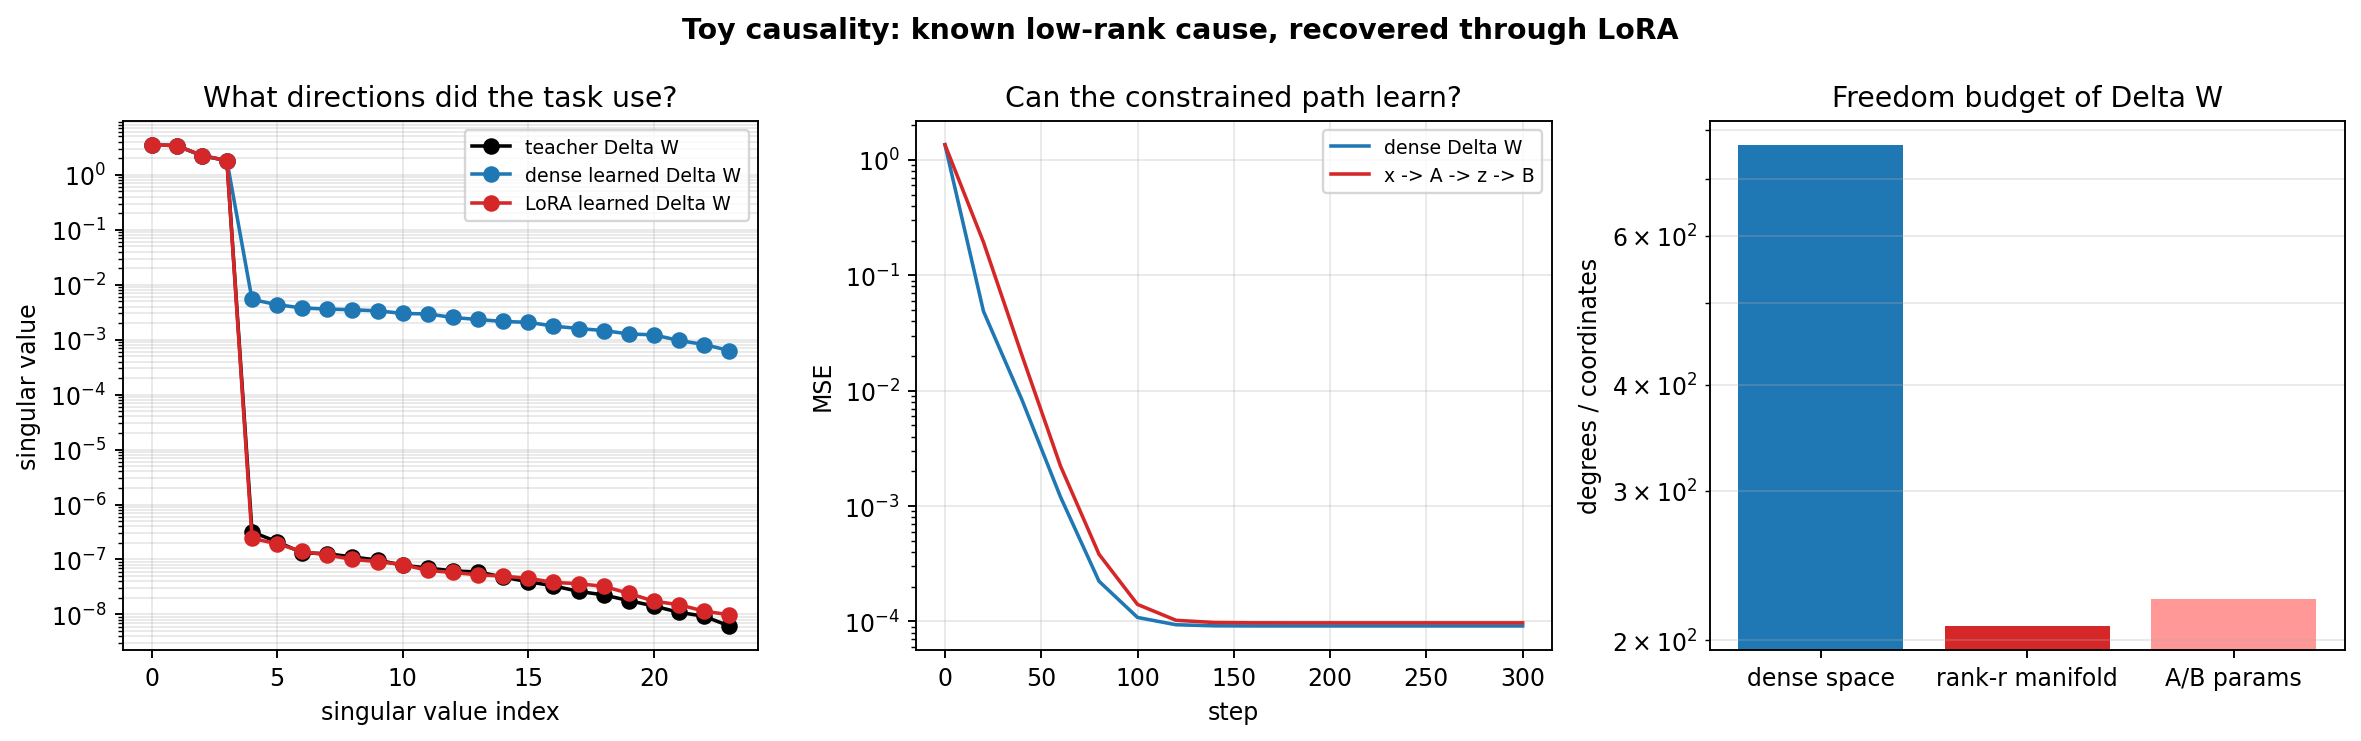
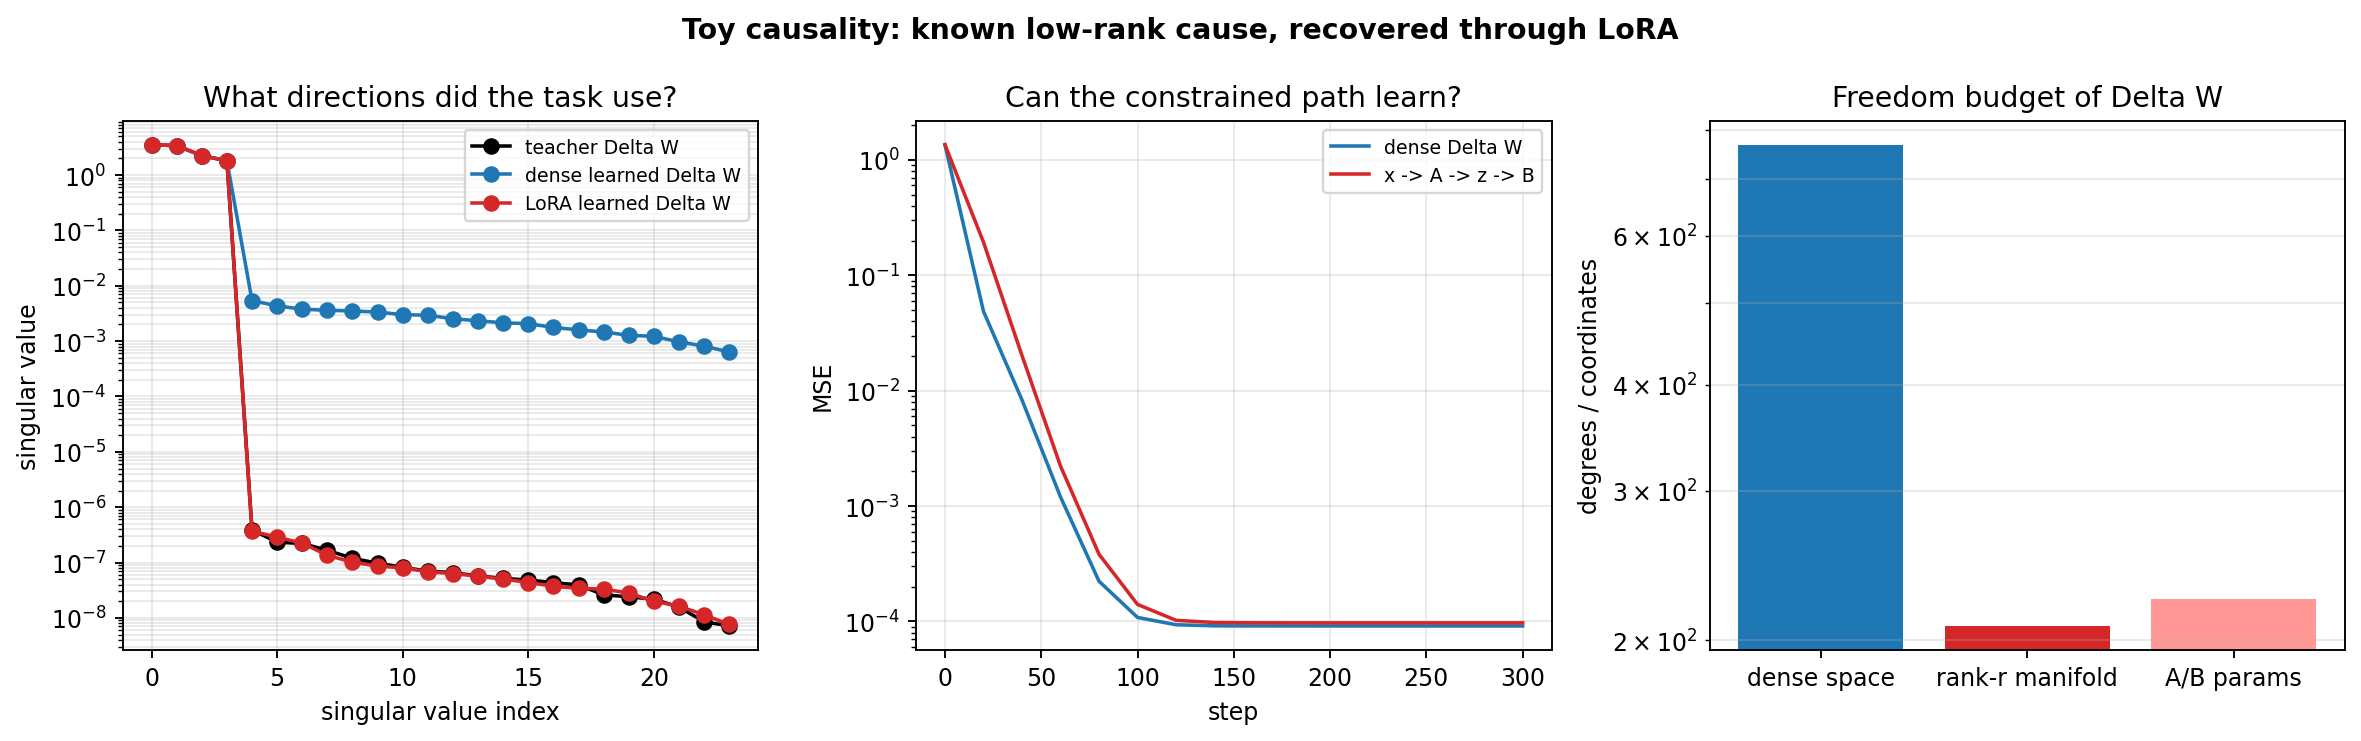
removing code redundancy

diff --git a/main.py b/main.py
@@ -84,81 +84,13 @@ class PneumoniaTensorDataset(Dataset):
 
 
 def print_protocol() -> None:
-    section("modeling protocol")
-    print("phenomenon     : a new task changes a pretrained model's behavior")
-    print("unit           : Delta W, the task-induced displacement of a frozen operator")
-    print("space          : Delta W lives in R^(out x in)")
-    print("dense cause    : Delta W can move anywhere in that space")
-    print("LoRA cause     : Delta W must pass through x -> A -> z_task -> B")
-    print("constraint     : rank(Delta W) <= r, a low-dimensional manifold")
-    print("observable     : singular-value energy collapse")
-    print("test logic     : toy world has known cause; clinical world has only traces")
-
-
-def vector_field(ax: plt.Axes, matrix: np.ndarray, title: str) -> None:
-    grid = np.linspace(-1.0, 1.0, 13)
-    xs, ys = np.meshgrid(grid, grid)
-    points = np.stack([xs.ravel(), ys.ravel()], axis=0)
-    moved = matrix @ points
-
-    ax.quiver(
-        points[0],
-        points[1],
-        moved[0],
-        moved[1],
-        angles="xy",
-        scale_units="xy",
-        scale=8.0,
-        width=0.004,
-        color="#d62728",
-        alpha=0.85,
-    )
-    ax.axhline(0, color="black", lw=0.7, alpha=0.35)
-    ax.axvline(0, color="black", lw=0.7, alpha=0.35)
-    ax.set_aspect("equal")
-    ax.set_xlim(-1.15, 1.15)
-    ax.set_ylim(-1.15, 1.15)
-    ax.set_title(title)
-    ax.set_xticks([])
-    ax.set_yticks([])
-
-
-def draw_intuition() -> Path:
-    dense_2d = np.array([[1.2, -0.4], [0.7, 0.9]])
-    rank1_2d = np.outer(np.array([1.0, 0.35]) / np.linalg.norm([1.0, 0.35]), np.array([0.8, -0.6]))
-    dense = make_low_rank_update(out_dim=24, in_dim=24, rank=24, seed=0)
-    low_rank = make_low_rank_update(out_dim=24, in_dim=24, rank=3, seed=1)
-
-    fig, axes = plt.subplots(1, 3, figsize=(13.5, 4.2))
-    vector_field(axes[0], dense_2d, "full space: many possible pushes")
-    vector_field(axes[1], rank1_2d, "rank-1 manifold: one dominant push")
-
-    ax = axes[2]
-    dense_s = singular_values(dense)
-    low_rank_s = singular_values(low_rank)
-    ax.semilogy(dense_s / dense_s.max(), "o-", label="dense update", color="#444444")
-    ax.semilogy(low_rank_s / low_rank_s.max(), "o-", label="low-rank update", color="#d62728")
-    ax.set_title("same assumption, spectrum view")
-    ax.set_xlabel("singular value index")
-    ax.set_ylabel("sigma / sigma_max")
-    ax.grid(alpha=0.28, which="both")
-    ax.legend(fontsize=9)
-
-    fig.suptitle("Choose the unit, choose the space, then choose the constraint", fontweight="bold")
-    fig.tight_layout()
-    out = VIS / "intuition_low_rank.png"
-    fig.savefig(out, dpi=170, bbox_inches="tight")
-    plt.close(fig)
-    return out
-
-
-def run_intuition() -> Path:
-    section("intuition: from phenomenon to constrained space")
-    print("I first decide what object carries the causal change: Delta W.")
-    print("Then I ask whether Delta W needs the whole space or a low-rank manifold.")
-    out = draw_intuition()
-    print(f"saved: {out}")
-    return out
+    section("ADAPTATION MANIFOLD ANALYSIS PROTOCOL")
+    print("Task Shift     : Domain adaptation shifts pretrained behaviors on new tasks")
+    print("Unit of Change : Delta W (The weight displacement tensor carrying task adaptation)")
+    print("Hypothesis     : Weight adaptation happens on a low-rank task subspace")
+    print("Constraint     : rank(Delta W) <= r (Restricting update degrees of freedom)")
+    print("Observable     : Singular Value Spectrum Collapse (Energy concentration in a few directions)")
+    print("Validation     : Recovers subspace in Toy world; profiles spectrum decay in Medical ViT")
 
 
 def print_tensor_flow(lora: LoRALinear, batch_size: int) -> None:
@@ -171,10 +103,8 @@ def print_tensor_flow(lora: LoRALinear, batch_size: int) -> None:
     print(shape_line("update = z B^T", (batch_size, lora.out_dim)))
     print(shape_line("Delta W = B A", lora.delta_weight.shape))
     print()
-    print(f"dense Delta W freedom : {compact_int(report['dense_space_dim'])}")
-    print(f"LoRA raw coordinates  : {compact_int(report['lora_raw_params'])}")
-    print(f"rank-r manifold dim   : {compact_int(report['rank_manifold_dim'])}")
-    print(f"A/B gauge redundancy  : {compact_int(report['gauge_redundancy'])}")
+    print(f"Unconstrained space (Dense)  : {compact_int(report['dense_space_dim'])} parameters")
+    print(f"LoRA active parameter count  : {compact_int(report['lora_raw_params'])} parameters")
 
 
 def draw_toy(
@@ -585,10 +515,10 @@ def run_clinical_figure_only() -> None:
 
 
 def parse_args() -> argparse.Namespace:
-    parser = argparse.ArgumentParser(description="LoRA as clinical adaptation geometry")
+    parser = argparse.ArgumentParser(description="LoRA parameter efficiency analysis in medical ViTs")
     parser.add_argument(
         "--stage",
-        choices=["intuition", "toy", "real", "clinical-figure", "all"],
+        choices=["toy", "real", "clinical-figure", "all"],
         default="toy",
         help="real trains ViT and is intended for Colab/GPU; clinical-figure reuses saved metrics.",
     )
@@ -602,8 +532,6 @@ def main() -> None:
     set_seed(args.seed)
     print_protocol()
 
-    if args.stage in {"intuition", "all"}:
-        run_intuition()
     if args.stage in {"toy", "all"}:
         run_toy(seed=args.seed)
     if args.stage in {"real", "all"}: